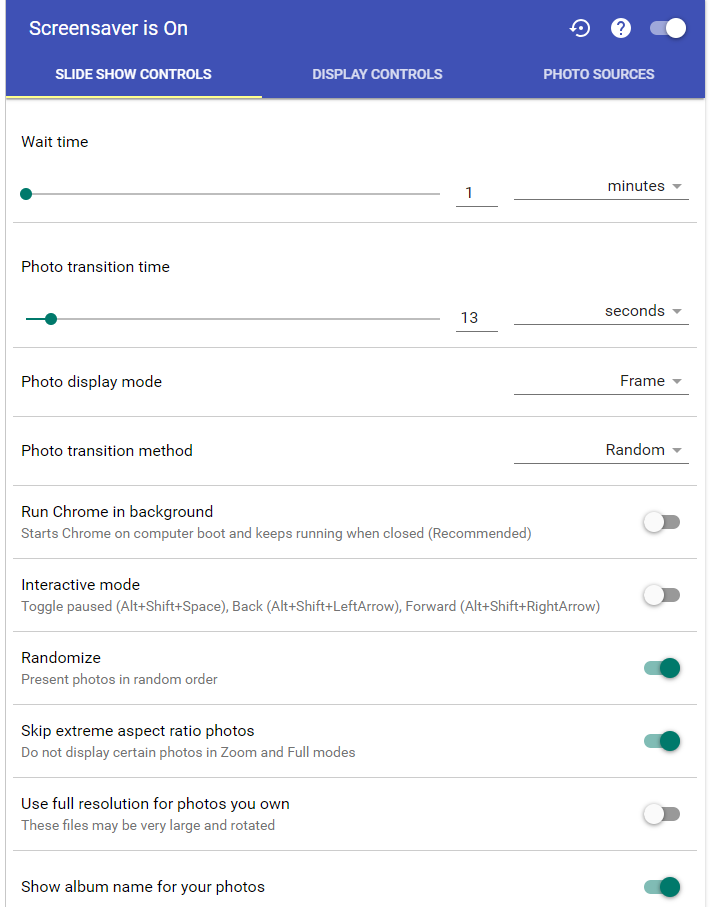
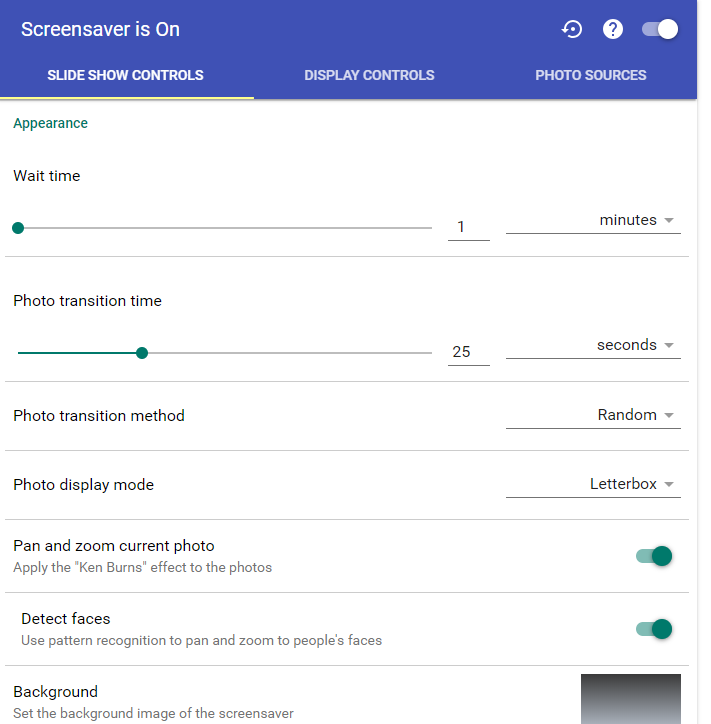
add detect faces

diff --git a/docs/help/settings.md b/docs/help/settings.md
@@ -32,6 +32,10 @@ will be displayed.
 
 The amount of time before the next photo will be displayed.
 
+> ![alt text](./assets/settings_ss_controls_trans_mode.png)
+
+The animation to be used between photos
+
 > ![alt text](./assets/settings_ss_controls_display_mode.png)
 
 The appearance of the photo.
@@ -42,14 +46,28 @@ The appearance of the photo.
 * Full - Fill screen, modify aspect ratio if necessary
 * Random - Select one of the above options each time the screensaver starts
 
-> ![alt text](./assets/settings_ss_controls_trans_mode.png)
-
-The animation to be used between photos
-
-> ![alt text](./assets/settings_ss_controls_pan_and_scan.png)
+> ![alt text](./assets/settings_ss_controls_pan_and_zoom.png)
 
 This will give a "live" feel to the current photo by zooming and
 translating while it is being displayed.
+
+> ![alt text](./assets/settings_ss_controls_detect_faces.png)
+
+This will attempt to find people's faces in a photo, and if found,
+use them as the target for panning and zooming. It is not 100%
+accurate.
+
+> ![alt text](./assets/settings_ss_controls_background_image.png)
+
+Select the background style for the screensaver. This will display a
+dialog with the available styles.
+
+> ![alt text](./assets/settings_ss_controls_full_res.png)
+
+Display the highest resolution available for your Google Photos. These files
+can be extremely large. Also, they have not been auto rotated in Google Photos.
+If you have photos that are not oriented properly, you will need to fix that
+in [Google Photos](https://support.google.com/photos/answer/6128850?co=GENIE.Platform%3DDesktop).
 
 > ![alt text](./assets/settings_ss_controls_background.png)
 
@@ -95,23 +113,17 @@ Don't show photos that are very narrow or vary wide when in Full or Zoom mode.
 These photos would be highly distorted in Full mode or zoomed in on a small
 portion of the photo in Zoom mode.
 
-> ![alt text](./assets/settings_ss_controls_full_res.png)
+> ![alt text](./assets/settings_ss_controls_show_source.png)
 
-Display the highest resolution available for your Google Photos. These files
-can be extremely large. Also, they have not been auto rotated in Google Photos.
-If you have photos that are not oriented properly, you will need to fix that
-in [Google Photos](https://support.google.com/photos/answer/6128850?co=GENIE.Platform%3DDesktop).
+Display the original source of the currently displayed photo in the screensaver
+when you click the left mouse button. You may want to turn this off if you normally
+use a left mouse click to wakeup your screen.
 
 > ![alt text](./assets/settings_ss_controls_album_name.png)
 
 Display the album name your Google Photos are in, if you have used
 [Album Mode](./google_photos.html#albums)
 to select them.
-
-> ![alt text](./assets/settings_ss_controls_location.png)
-
-Display the geo location of a photo if it is available. Note: This feature
-is not currently available.
 
 > ![alt text](./assets/settings_ss_controls_show_weather.png)
 
@@ -149,17 +161,6 @@ options are available:
 > ![alt text](./assets/settings_ss_controls_large_time.png)
 
 Use a larger font for the time display on the screensaver
-
-> ![alt text](./assets/settings_ss_controls_show_source.png)
-
-Display the original source of the currently displayed photo in the screensaver
-when you click the left mouse button. You may want to turn this off if you normally
-use a left mouse click to wakeup your screen.
-
-> ![alt text](./assets/settings_ss_controls_background_image.png)
-
-Select the background style for the screensaver. This will display a
-dialog with the available styles.
 
 
 <a name="display_controls"></a>
